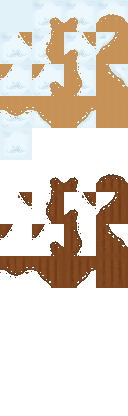
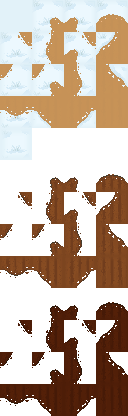
Watered tiles carry their brown tint in the atlas instead of a multiply material
Claude-Session: https://claude.ai/code/session_01DZoCGNTKvTqdtWPybs567b

Changed region(s): [[0.0, 0.7188, 1.0, 1.0], [0.1562, 0.75, 0.25, 0.8125]]

diff --git a/tools/art/art.py b/tools/art/art.py
@@ -329,7 +329,7 @@ def _load_tiles(folder: Path) -> tuple[dict, list]:
 
 
 def _assemble(folder: Path, sspec: dict) -> dict:
-    """Finished tile groups for one season: field (lower ↔ untilled), variants, tilled cutouts, and white masks."""
+    """Finished tile groups for one season: field (lower ↔ untilled), variants, tilled cutouts, and the same cutouts tinted wet."""
     raw_tiles, raw_variants = _load_tiles(folder)
     tiles, blended = tiles_post.finish(raw_tiles, raw_variants, sspec)
     size = sspec.get("tile_size", 16)
@@ -343,7 +343,9 @@ def _assemble(folder: Path, sspec: dict) -> dict:
         variants = [tiles_post.edge_blend({0: tiles[0]}, lower_target, upper, sspec.get("variant_fade", 0), 1.0)[0]]
     field = tiles_post.recolour(tiles, lower_target, upper, None, tiles_post.hex_colour(sspec["field_colour"]), sspec.get("field_flatten", 0.0))
     field[0] = tiles_post.flat_tile(lower_target, size)
-    return {"field": field, "variants": variants, "tilled": tiles_post.cutout(tiles, lower_target, upper), "masks": tiles_post.cutout(tiles, lower_target, upper, white=True)}
+    tilled = tiles_post.cutout(tiles, lower_target, upper)
+    wet = tiles_post.tint(tilled, tiles_post.hex_colour(sspec.get("wet_tint", "#ffffff")) / 255)
+    return {"field": field, "variants": variants, "tilled": tilled, "wet": wet}
 
 
 def _tile_preview(name: str, spec: dict) -> Path:
@@ -460,7 +462,7 @@ def _corner_index(corners: dict) -> int:
 
 
 def cmd_tile_import(args) -> None:
-    """Atlas rows 0-3: lower ↔ untilled field Wang tiles (index 0 flat lower colour); row 4: variants; rows 5-8: tilled cutouts; rows 9-12: white masks."""
+    """Atlas rows 0-3: lower ↔ untilled field Wang tiles (index 0 flat lower colour); row 4: variants; rows 5-8: tilled cutouts; rows 9-12: wet cutouts."""
     spec = load_json(ART / "tiles.json")[args.name]
     generated = load_json(ART / "generated.json")
     record = record_for(generated, "tilesets", args.name)
@@ -468,7 +470,7 @@ def cmd_tile_import(args) -> None:
     size = spec.get("tile_size", 16)
     for season, sspec in _season_specs(spec, None).items():
         groups = _assemble(_tile_folder(args.name, season, sspec), sspec)
-        blocks = [(groups["field"], 0, 1), (dict(enumerate(groups["variants"])), 4, 0), (groups["tilled"], 5, 1), (groups["masks"], 9, 1)]
+        blocks = [(groups["field"], 0, 1), (dict(enumerate(groups["variants"])), 4, 0), (groups["tilled"], 5, 1), (groups["wet"], 9, 1)]
         atlas = Image.new("RGBA", (4 * size, 13 * size), (0, 0, 0, 0))
         terrain = {}
         for block, first_row, upper_bit in blocks:

diff --git a/tools/art/tiles_post.py b/tools/art/tiles_post.py
@@ -138,3 +138,13 @@ def season_style(tiles: dict, lower: np.ndarray, upper: np.ndarray, style: dict)
         a[..., :3] = np.clip(rgb, 0, 255)
         out[key] = Image.fromarray(a.round().astype(np.uint8), "RGBA")
     return out
+
+
+def tint(tiles: dict, factor: np.ndarray) -> dict:
+    """Multiply every pixel by a colour factor (0-1 per channel); alpha is kept."""
+    out = {}
+    for key, im in tiles.items():
+        a = np.asarray(im.convert("RGBA")).astype(float)
+        a[..., :3] = np.clip(a[..., :3] * factor, 0, 255)
+        out[key] = Image.fromarray(a.round().astype(np.uint8), "RGBA")
+    return out

diff --git a/tools/art/README.md b/tools/art/README.md
@@ -29,7 +29,7 @@ Declare the character in `bodies.json` (prompt, canvas size as one number or `[w
 
 ## Tiles
 
-Declare the terrain pair in `tiles.json`: prompts, `tile_size`, `seed`, PixelLab `params` (use `"mode": "pro"`; the standard mode gives flat grass and gridded soil), `edge_blend` (pixels faded toward the flat terrain colour at every tile edge, which is what hides seams), `soften_upper` (pulls the upper terrain toward its mean so furrows stay faint), `field_colour` and `field_flatten` (the untilled look, derived from the upper tiles so edges stay aligned), and per-season `lower` prompts, `lower_colour` (the flat plain tile and the shift applied to the textured tiles) and `variants`. With `"variant_mode": "sprite"` each variant prompt becomes a `variant_size` transparent sprite dropped at a seeded offset onto the flat lower colour; without it the prompt is inpainted into the centre of the textured tile, which keeps texture around it. Then `art.py tile-design <name> [--season s] [--variants-only]` (one generation per tileset and per variant; the preview stacks a sample field per season with a tilled patch inside it), approval as above, and `art.py tile-import <name>`, which writes `assets/tiles/<name>_<season>.png` and its `.tres`. Atlas rows 0-3 are the Wang tiles ordered by corner mask NW NE SW SE (lower ↔ untilled field, index 0 flat), row 4 the variants, rows 5-8 the same Wang shapes as tilled cutouts and rows 9-12 as white masks. `scripts/farm/farm.gd` draws the field, the tilled cutouts, and the watered masks (multiplied brown) each on a dual grid, swaps the season's TileSet, and scatters variants.
+Declare the terrain pair in `tiles.json`: prompts, `tile_size`, `seed`, PixelLab `params` (use `"mode": "pro"`; the standard mode gives flat grass and gridded soil), `edge_blend` (pixels faded toward the flat terrain colour at every tile edge, which is what hides seams), `soften_upper` (pulls the upper terrain toward its mean so furrows stay faint), `field_colour` and `field_flatten` (the untilled look, derived from the upper tiles so edges stay aligned), and per-season `lower` prompts, `lower_colour` (the flat plain tile and the shift applied to the textured tiles) and `variants`. With `"variant_mode": "sprite"` each variant prompt becomes a `variant_size` transparent sprite dropped at a seeded offset onto the flat lower colour; without it the prompt is inpainted into the centre of the textured tile, which keeps texture around it. Then `art.py tile-design <name> [--season s] [--variants-only]` (one generation per tileset and per variant; the preview stacks a sample field per season with a tilled patch inside it), approval as above, and `art.py tile-import <name>`, which writes `assets/tiles/<name>_<season>.png` and its `.tres`. Atlas rows 0-3 are the Wang tiles ordered by corner mask NW NE SW SE (lower ↔ untilled field, index 0 flat), row 4 the variants, rows 5-8 the same Wang shapes as tilled cutouts and rows 9-12 those cutouts tinted by `wet_tint`. `scripts/farm/farm.gd` draws the field, the tilled cutouts, and the wet cutouts each on a dual grid, swaps the season's TileSet, and scatters variants.
 
 ## Placeholders
 
